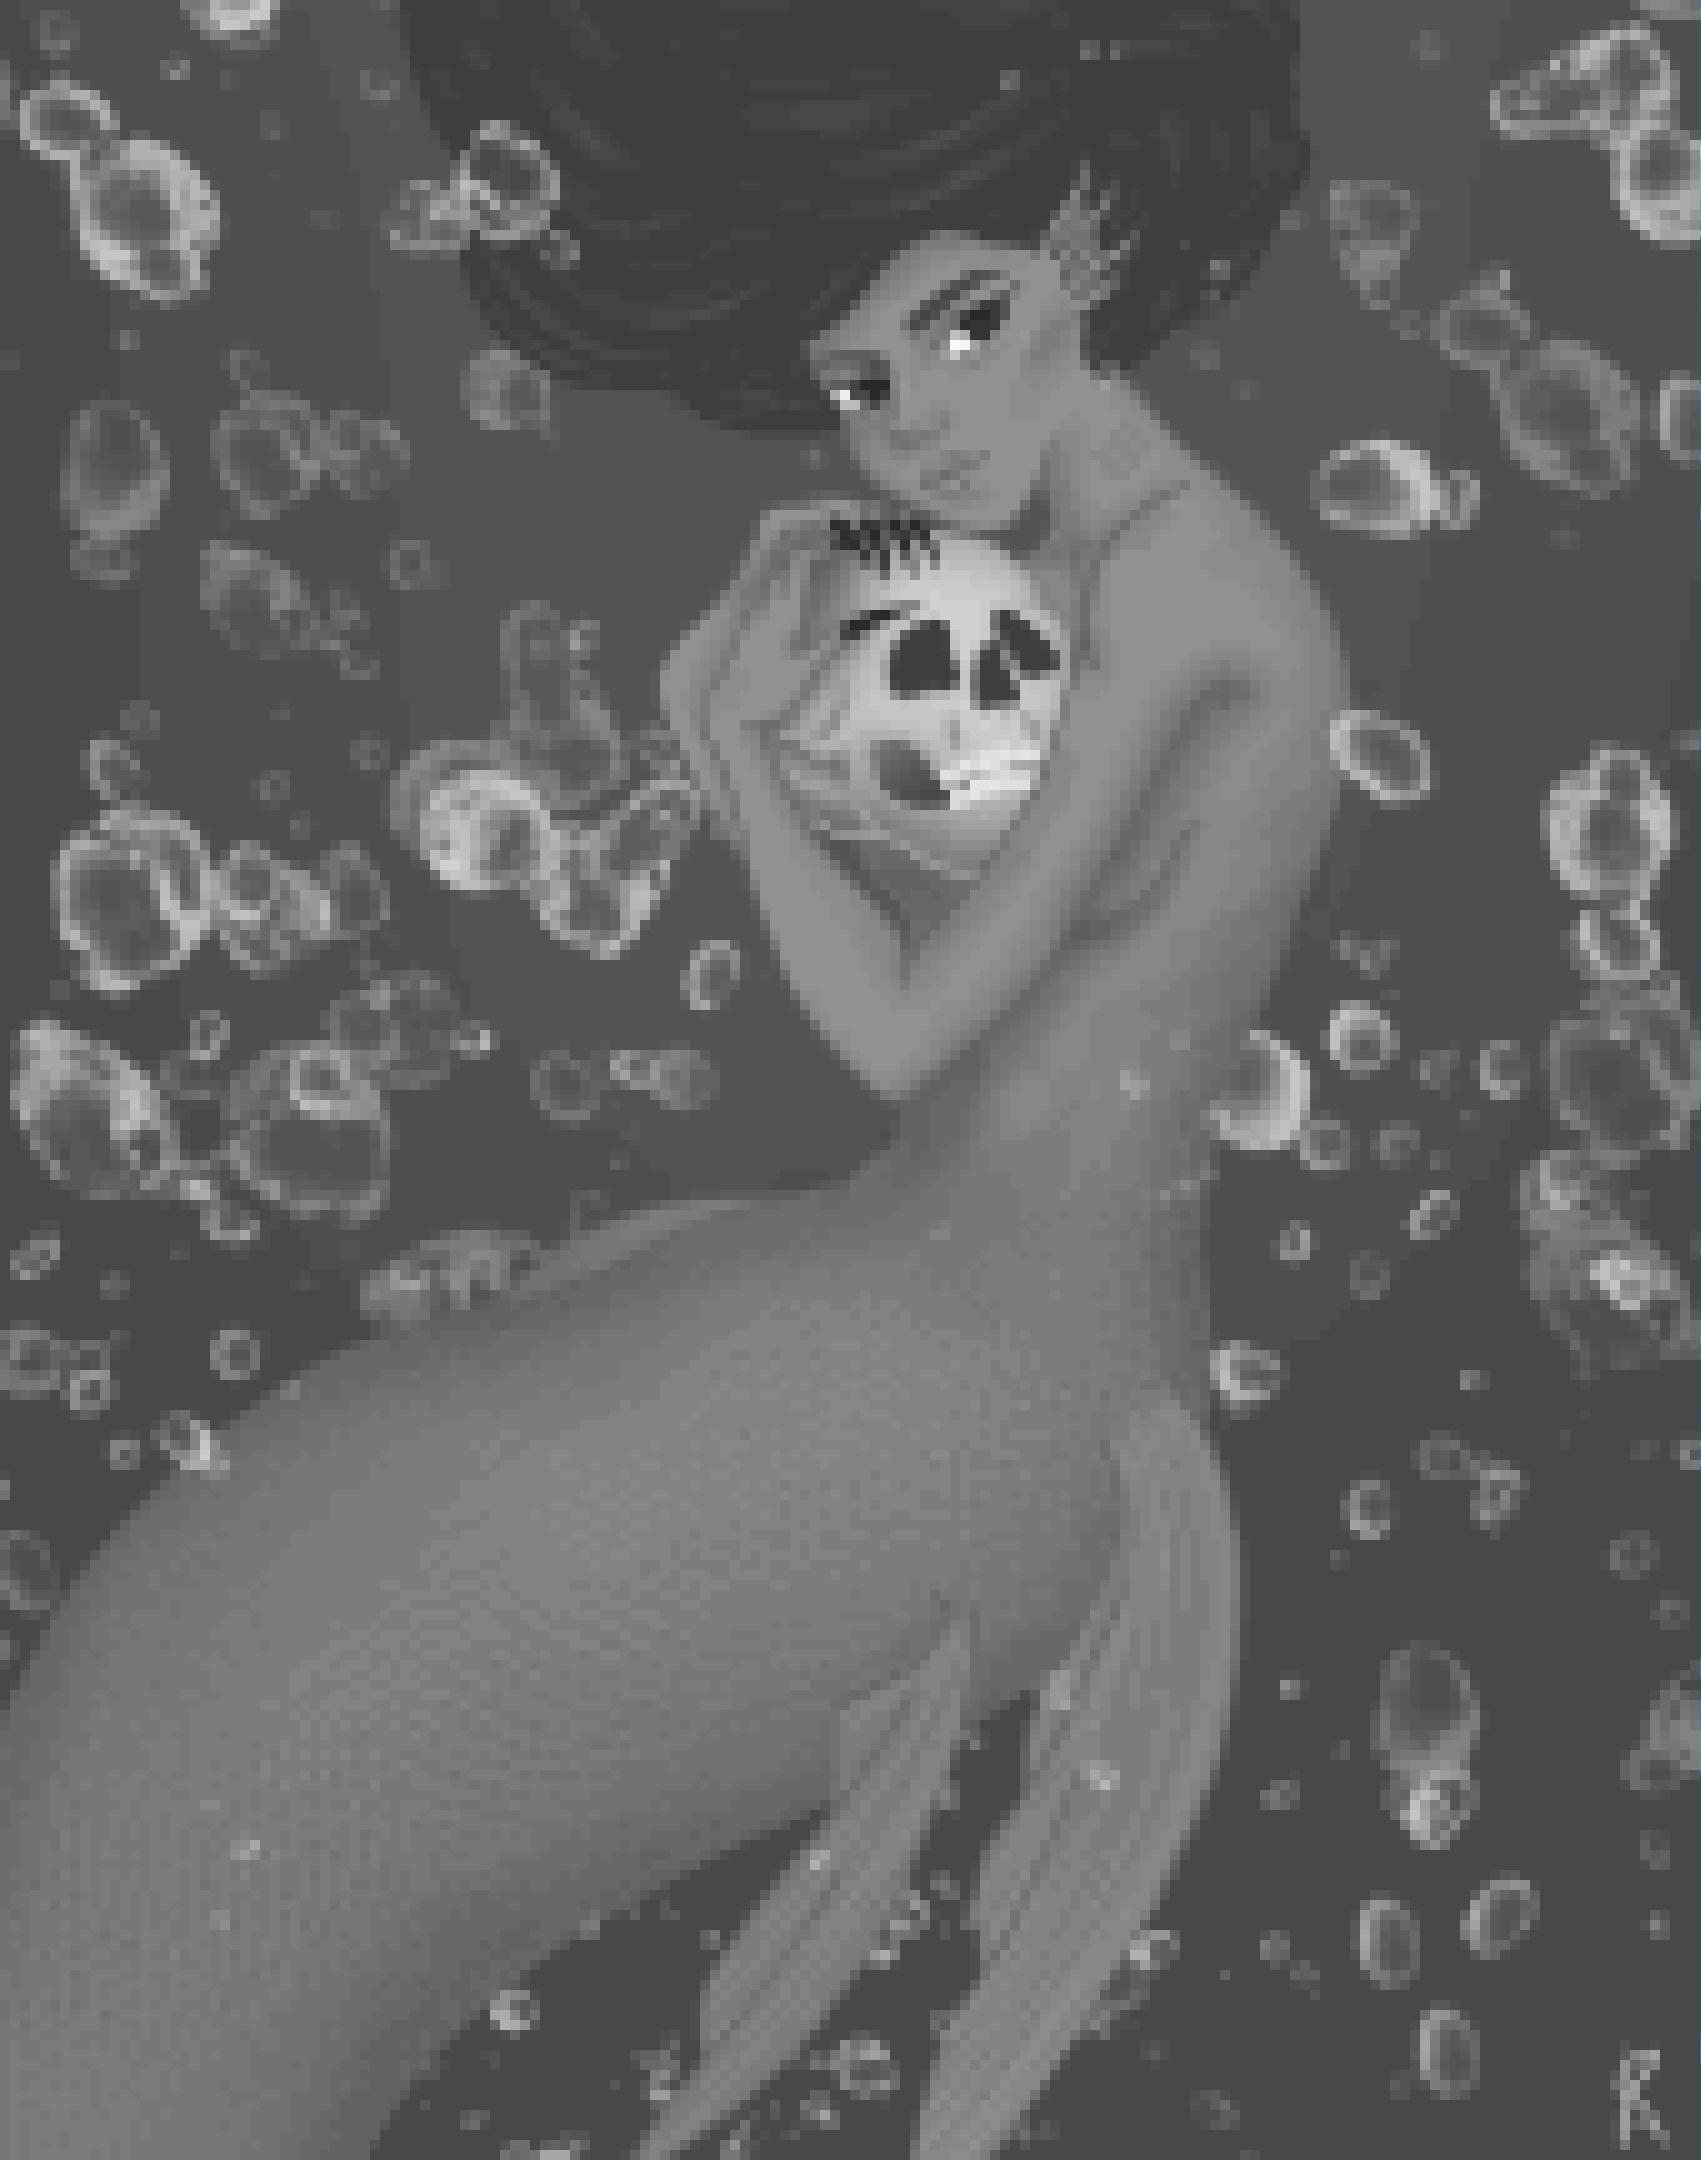
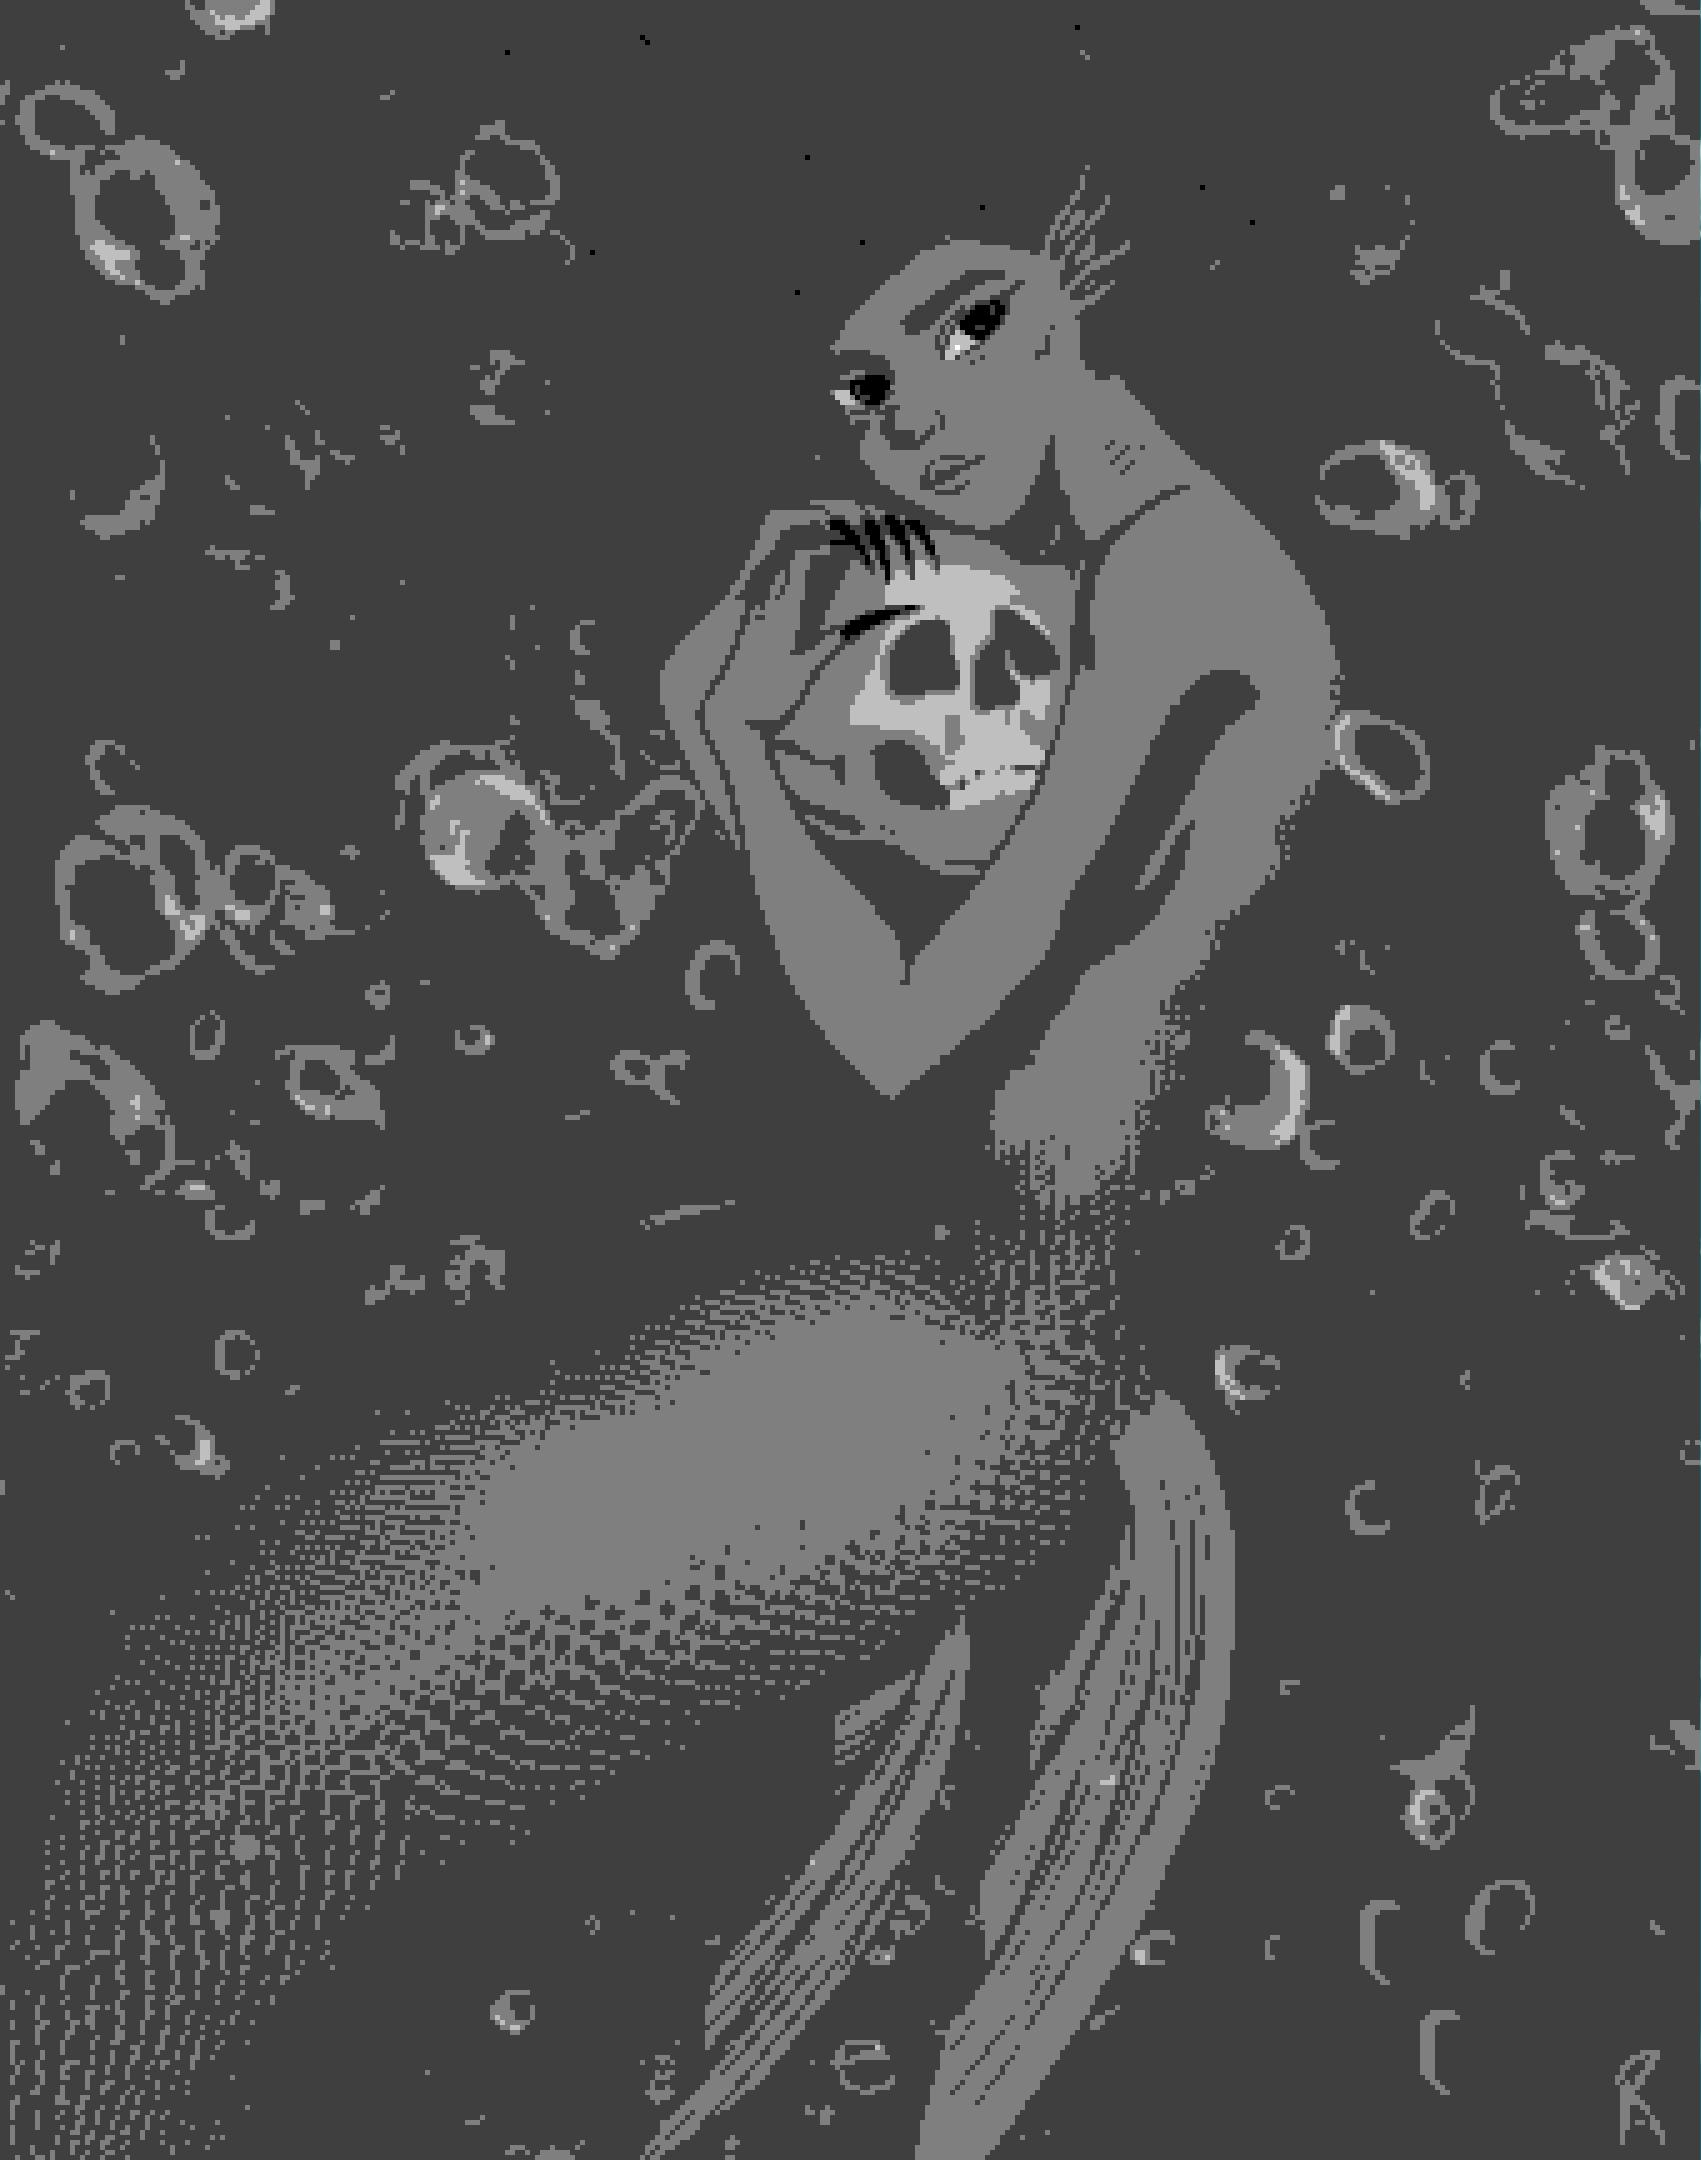
Add filter results to README.md

diff --git a/filter_with_filename.py b/filter_with_filename.py
@@ -21,7 +21,7 @@ def make_gray_picture(img_arr, mosaic_size, grayscale):
 img = Image.open("test.jpg")
 m_size = 10
 g_count = 50
-res_name = "res.jpg"
+res_name = "res_with_filename.jpg"
 img_array = np.array(img)
 make_gray_picture(img_array, m_size, g_count)
 res = Image.fromarray(img_array)

diff --git a/old_filter.py b/old_filter.py
@@ -25,4 +25,4 @@ while i < a - 11:
         j = j + 10
     i = i + 10
 res = Image.fromarray(arr)
-res.save('res.jpg')
+res.save('res_old.jpg')

diff --git a/README.md b/README.md
@@ -17,3 +17,17 @@
 На выполнение filter_with_filename.py ушли рекордные 1,8 сек.
 (Так как больше не затрачивается время на сбор информации от пользователя)
 ![alt text](pictures_for_readme/filter_with_filename_profile.JPG)
+
+За тестовое изображение я взяла свой рисунок
+![alt text](test.jpg)
+
+Результат работы изначального фильтра old_filter.py:
+![alt text](res_old.jpg)
+
+Результат работы фильтра filter.py, с введенными значениями:
+размер сетки - 5
+количество градаций серого - 5:
+![alt text](res.jpg)
+
+Результат работы фильтра filter_with_filename.py(размер сетки 10, 50 градаций серого):
+![atl text](res_with_filename.jpg)
